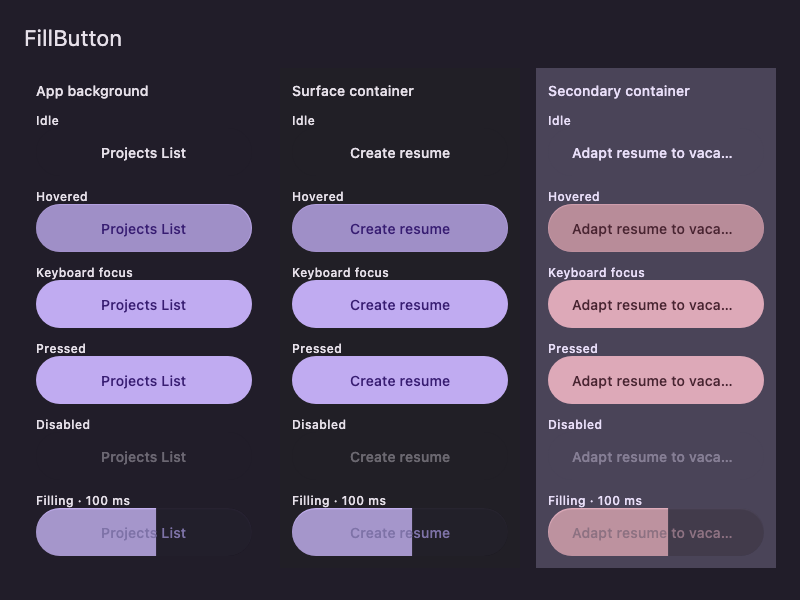
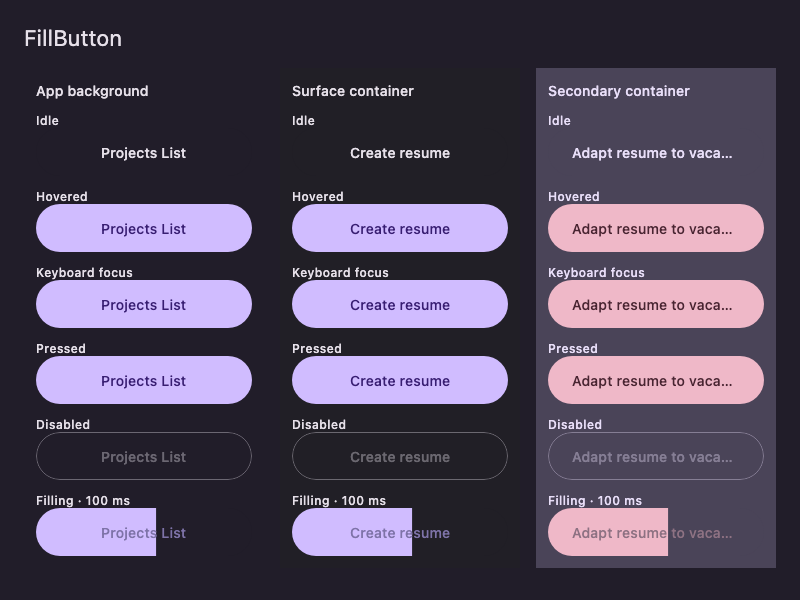
Improve FillButton works

diff --git a/shared/src/commonMain/kotlin/reframecv/ui/compose/common/FillButton.kt b/shared/src/commonMain/kotlin/reframecv/ui/compose/common/FillButton.kt
@@ -1,8 +1,8 @@
 package reframecv.ui.compose.common
 
-import androidx.compose.animation.animateColorAsState
 import androidx.compose.animation.core.animateFloatAsState
 import androidx.compose.animation.core.tween
+import androidx.compose.foundation.BorderStroke
 import androidx.compose.foundation.interaction.MutableInteractionSource
 import androidx.compose.foundation.interaction.collectIsFocusedAsState
 import androidx.compose.foundation.interaction.collectIsHoveredAsState
@@ -10,9 +10,11 @@ import androidx.compose.foundation.interaction.collectIsPressedAsState
 import androidx.compose.foundation.layout.height
 import androidx.compose.material3.Button
 import androidx.compose.material3.ButtonDefaults
+import androidx.compose.material3.LocalRippleConfiguration
 import androidx.compose.material3.MaterialTheme
 import androidx.compose.material3.Text
 import androidx.compose.runtime.Composable
+import androidx.compose.runtime.CompositionLocalProvider
 import androidx.compose.runtime.getValue
 import androidx.compose.runtime.remember
 import androidx.compose.ui.Modifier
@@ -20,6 +22,7 @@ import androidx.compose.ui.draw.clip
 import androidx.compose.ui.draw.drawBehind
 import androidx.compose.ui.geometry.Size
 import androidx.compose.ui.graphics.Color
+import androidx.compose.ui.graphics.lerp
 import androidx.compose.ui.text.style.TextOverflow
 import androidx.compose.ui.unit.dp
 
@@ -49,32 +52,30 @@ fun FillButton(
         targetValue = if (highlighted) 1f else 0f,
         animationSpec = tween(HOVER_ANIMATION_DURATION),
     )
-    val textColor by animateColorAsState(
-        targetValue = if (highlighted) {
-            filledContentColor
-        } else {
-            contentColor
-        },
-        animationSpec = tween(HOVER_ANIMATION_DURATION),
-    )
+    val disabledColor = contentColor.copy(alpha = DISABLED_CONTENT_ALPHA)
+    val textColor = if (enabled) lerp(contentColor, filledContentColor, fill) else disabledColor
 
-    Button(
-        onClick = onClick,
-        enabled = enabled,
-        modifier = modifier.height(
-            FILL_BUTTON_HEIGHT.dp,
-        ).clip(ButtonDefaults.shape).drawBehind {
-            drawRect(color = containerColor)
-            drawRect(color = fillColor, size = Size(size.width * fill, size.height))
-        },
-        interactionSource = interactionSource,
-        colors = ButtonDefaults.buttonColors(
-            containerColor = Color.Transparent,
-            contentColor = textColor,
-            disabledContainerColor = Color.Transparent,
-            disabledContentColor = contentColor.copy(alpha = DISABLED_CONTENT_ALPHA),
-        ),
-    ) {
-        Text(text, maxLines = 1, overflow = TextOverflow.Ellipsis)
+    CompositionLocalProvider(LocalRippleConfiguration provides null) {
+        Button(
+            onClick = onClick,
+            enabled = enabled,
+            elevation = null,
+            border = if (enabled) null else BorderStroke(1.dp, disabledColor),
+            modifier = modifier.height(
+                FILL_BUTTON_HEIGHT.dp,
+            ).clip(ButtonDefaults.shape).drawBehind {
+                drawRect(color = containerColor)
+                drawRect(color = fillColor, size = Size(size.width * fill, size.height))
+            },
+            interactionSource = interactionSource,
+            colors = ButtonDefaults.buttonColors(
+                containerColor = Color.Transparent,
+                contentColor = textColor,
+                disabledContainerColor = Color.Transparent,
+                disabledContentColor = disabledColor,
+            ),
+        ) {
+            Text(text, color = textColor, maxLines = 1, overflow = TextOverflow.Ellipsis)
+        }
     }
 }

diff --git a/shared/src/jvmTest/kotlin/reframecv/ui/compose/application/RootContentScreenshotTest.kt b/shared/src/jvmTest/kotlin/reframecv/ui/compose/application/RootContentScreenshotTest.kt
@@ -1,61 +1,13 @@
 package reframecv.ui.compose.application
 
 import androidx.compose.ui.test.ExperimentalTestApi
-import androidx.compose.ui.test.onNodeWithText
-import androidx.compose.ui.test.performMouseInput
 import androidx.compose.ui.test.v2.runComposeUiTest
 import kotlin.test.Test
-import reframecv.shared.generated.resources.Res
-import reframecv.shared.generated.resources.navigation_projects_list
 import reframecv.testing.GoldenScreenshotTest
-import reframecv.testing.getTestString
 import reframecv.ui.components.application.TestRootComponent
 import reframecv.ui.theme.ReframeTheme.ThemeMode
 
 class RootContentScreenshotTest : GoldenScreenshotTest() {
-    @OptIn(ExperimentalTestApi::class)
-    @Test
-    fun hoveredNavigationMatchesReference() = runComposeUiTest {
-        setGoldenContent(this) { RootContent(TestRootComponent()) }
-        onNodeWithText(getTestString(Res.string.navigation_projects_list))
-            .performMouseInput { enter(center) }
-        captureGolden(this)
-    }
-
-    @OptIn(ExperimentalTestApi::class)
-    @Test
-    fun hoveredNavigationInLightThemeMatchesReference() = runComposeUiTest {
-        setGoldenContent(this, themeMode = ThemeMode.Light) { RootContent(TestRootComponent()) }
-        onNodeWithText(getTestString(Res.string.navigation_projects_list))
-            .performMouseInput { enter(center) }
-        captureGolden(this)
-    }
-
-    @OptIn(ExperimentalTestApi::class)
-    @Test
-    fun partiallyFilledNavigationMatchesReference() = runComposeUiTest {
-        setGoldenContent(this) { RootContent(TestRootComponent()) }
-        waitForIdle()
-        mainClock.autoAdvance = false
-        onNodeWithText(getTestString(Res.string.navigation_projects_list))
-            .performMouseInput { enter(center) }
-        mainClock.advanceTimeByFrame()
-        mainClock.advanceTimeByFrame()
-        mainClock.advanceTimeBy(100)
-        captureGolden(this)
-    }
-
-    @OptIn(ExperimentalTestApi::class)
-    @Test
-    fun navigationAfterHoverExitMatchesReference() = runComposeUiTest {
-        setGoldenContent(this) { RootContent(TestRootComponent()) }
-        val navigation = onNodeWithText(getTestString(Res.string.navigation_projects_list))
-        navigation.performMouseInput { enter(center) }
-        waitForIdle()
-        navigation.performMouseInput { exit() }
-        captureGolden(this)
-    }
-
     @OptIn(ExperimentalTestApi::class)
     @Test
     fun emptyProjectsStateInLightThemeMatchesReference() = runComposeUiTest {

diff --git a/shared/src/jvmTest/kotlin/reframecv/ui/compose/common/FillButtonTest.kt b/shared/src/jvmTest/kotlin/reframecv/ui/compose/common/FillButtonTest.kt
@@ -1,0 +1,64 @@
+package reframecv.ui.compose.common
+
+import androidx.compose.foundation.interaction.HoverInteraction
+import androidx.compose.foundation.interaction.MutableInteractionSource
+import androidx.compose.ui.graphics.Color
+import androidx.compose.ui.semantics.SemanticsActions
+import androidx.compose.ui.test.ExperimentalTestApi
+import androidx.compose.ui.test.onNodeWithText
+import androidx.compose.ui.test.performSemanticsAction
+import androidx.compose.ui.test.v2.runComposeUiTest
+import androidx.compose.ui.text.TextLayoutResult
+import kotlin.test.Test
+import kotlin.test.assertEquals
+import kotlin.test.assertTrue
+import reframecv.ui.theme.ReframeTheme
+
+@OptIn(ExperimentalTestApi::class)
+class FillButtonTest {
+    @Test
+    fun textColorChangesGraduallyOnHoverEnterAndExit() = runComposeUiTest {
+        val source = MutableInteractionSource()
+        val hover = HoverInteraction.Enter()
+        setContent {
+            ReframeTheme {
+                FillButton(
+                    text = "Animated text",
+                    onClick = {},
+                    contentColor = Color.Black,
+                    filledContentColor = Color.White,
+                    interactionSource = source,
+                )
+            }
+        }
+        waitForIdle()
+        mainClock.autoAdvance = false
+
+        fun textColor(): Color {
+            val results = mutableListOf<TextLayoutResult>()
+            onNodeWithText("Animated text").performSemanticsAction(
+                SemanticsActions.GetTextLayoutResult,
+            ) { it(results) }
+            return results.single().layoutInput.style.color
+        }
+
+        assertEquals(Color.Black, textColor())
+        runOnIdle { assertTrue(source.tryEmit(hover)) }
+        mainClock.advanceTimeByFrame()
+        mainClock.advanceTimeByFrame()
+        mainClock.advanceTimeBy(100)
+        val enteringColor = textColor()
+        assertTrue(enteringColor.red > 0f && enteringColor.red < 1f)
+        mainClock.advanceTimeBy(200)
+        assertEquals(Color.White, textColor())
+
+        runOnIdle { assertTrue(source.tryEmit(HoverInteraction.Exit(hover))) }
+        mainClock.advanceTimeByFrame()
+        mainClock.advanceTimeByFrame()
+        mainClock.advanceTimeBy(100)
+        val exitingColor = textColor()
+        assertTrue(exitingColor.red > 0f && exitingColor.red < 1f)
+        mainClock.advanceTimeBy(200)
+        assertEquals(Color.Black, textColor())
+    }
+}
